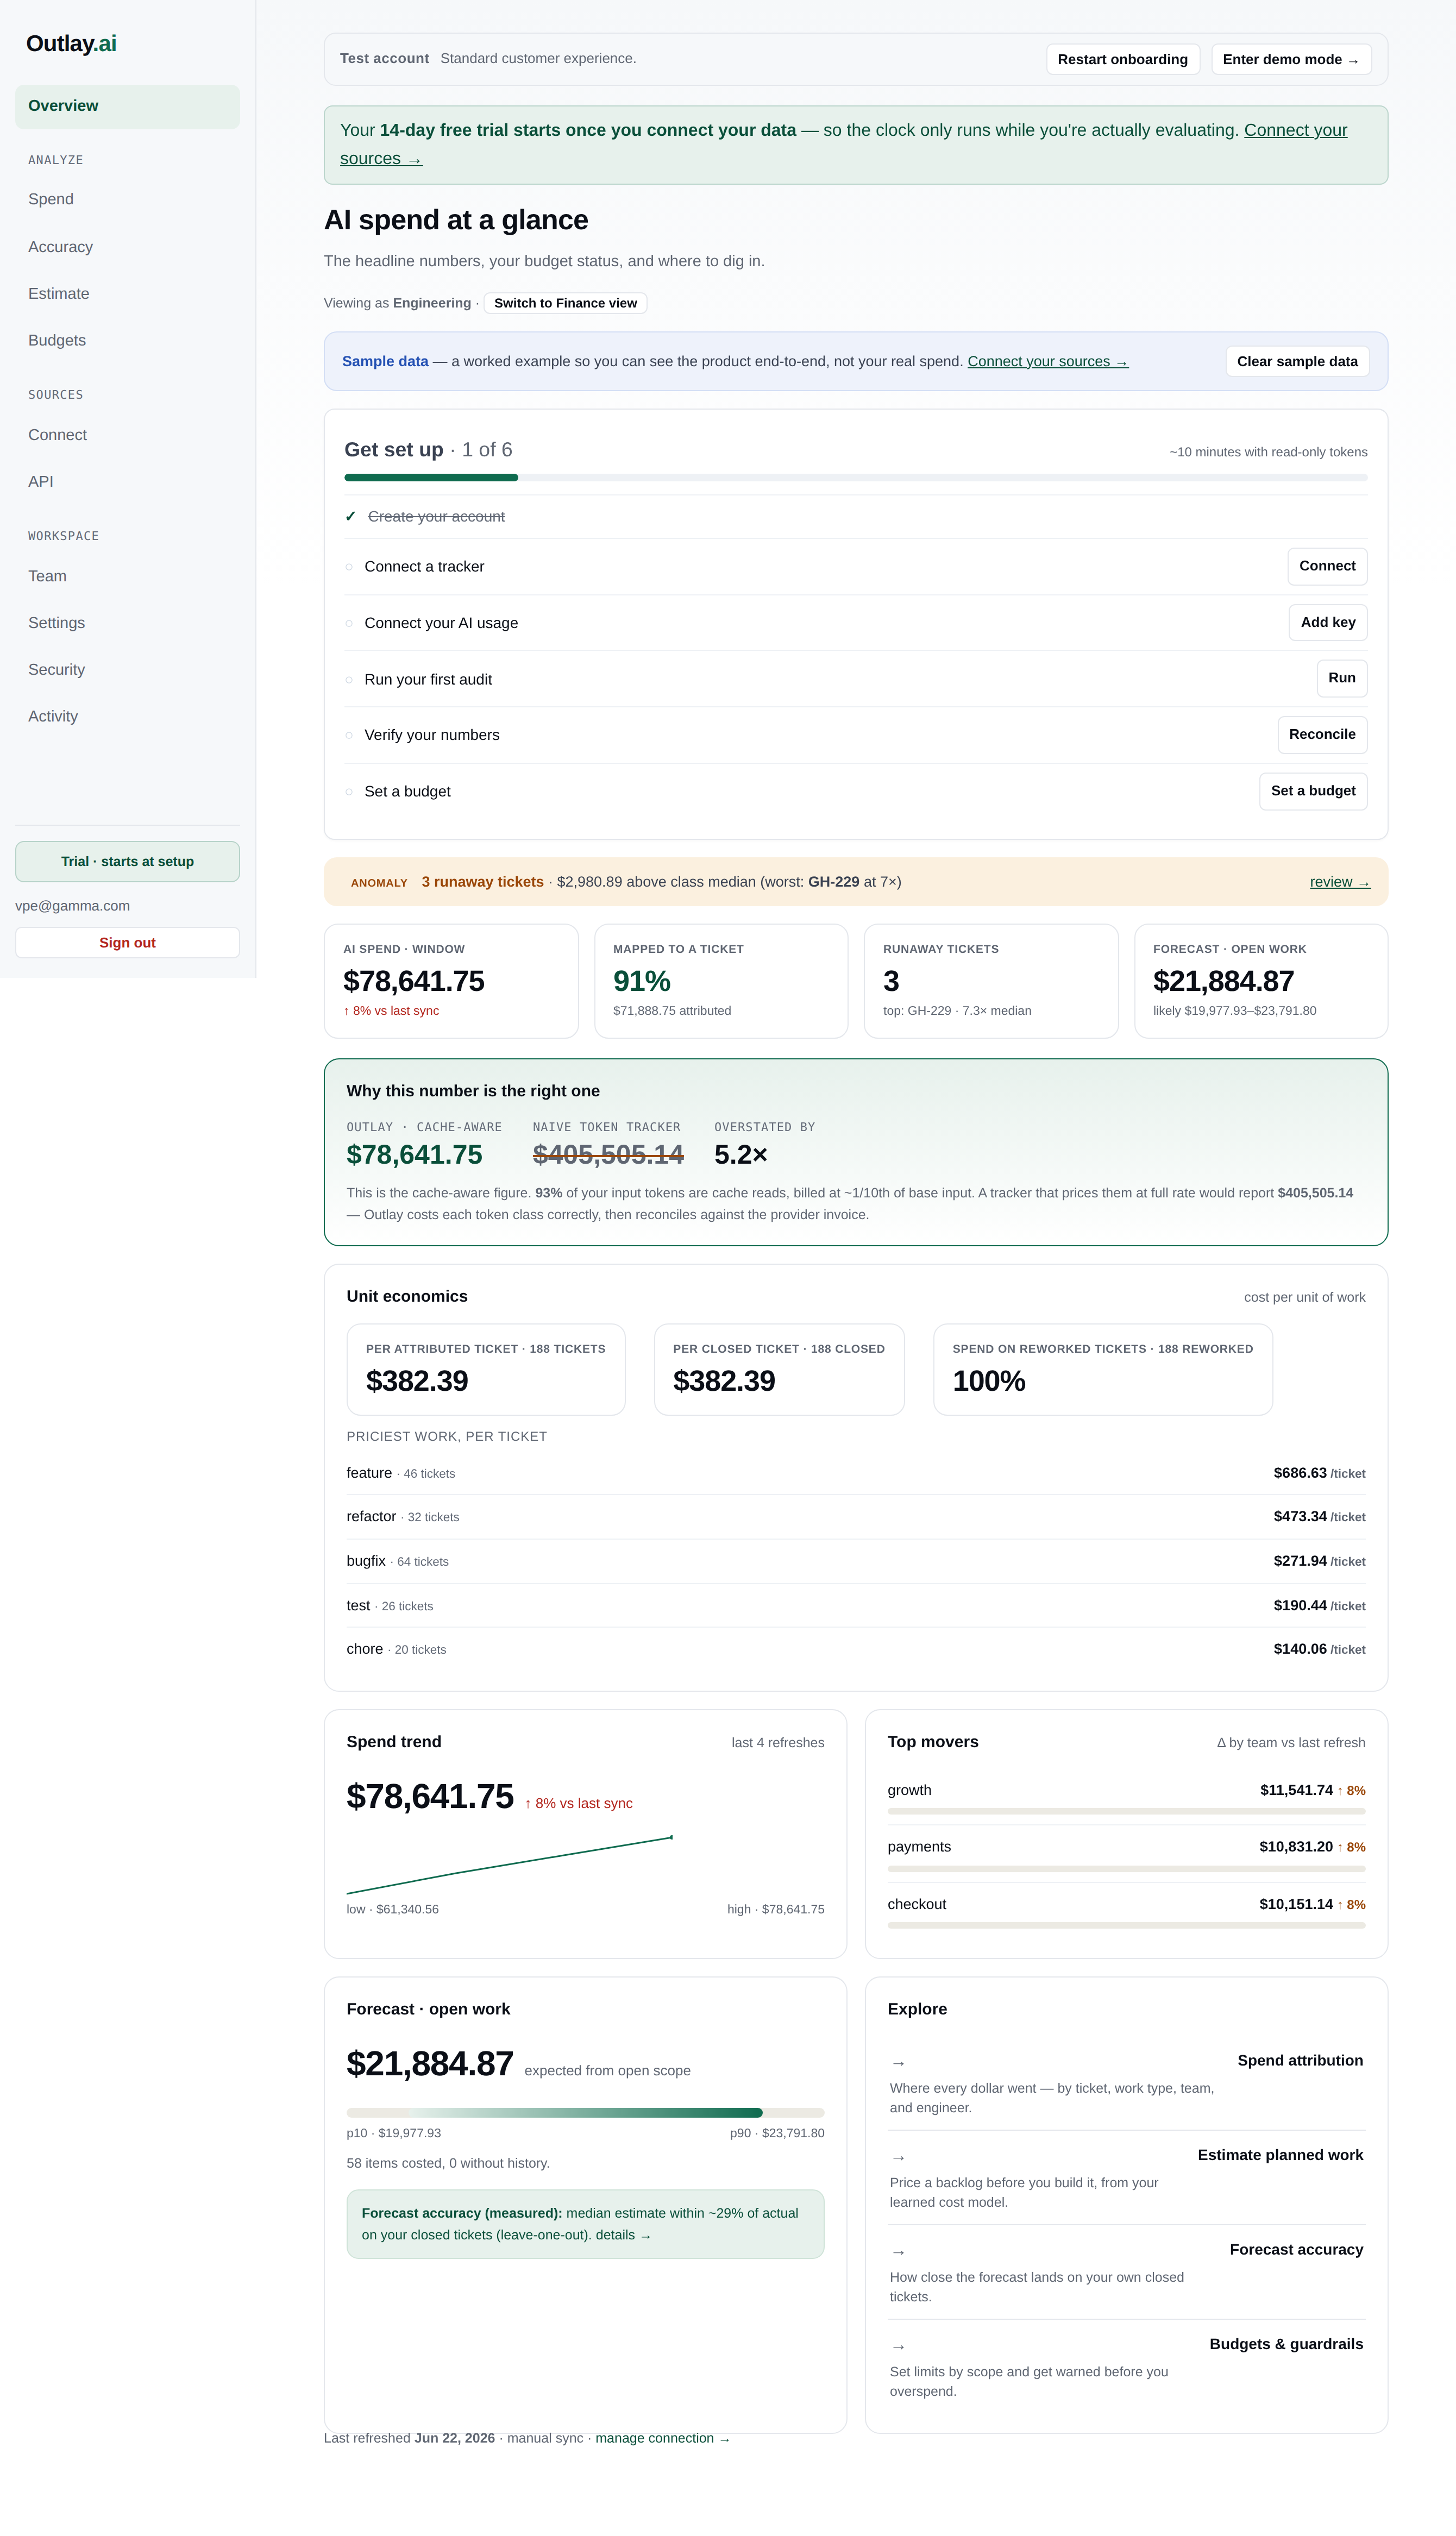
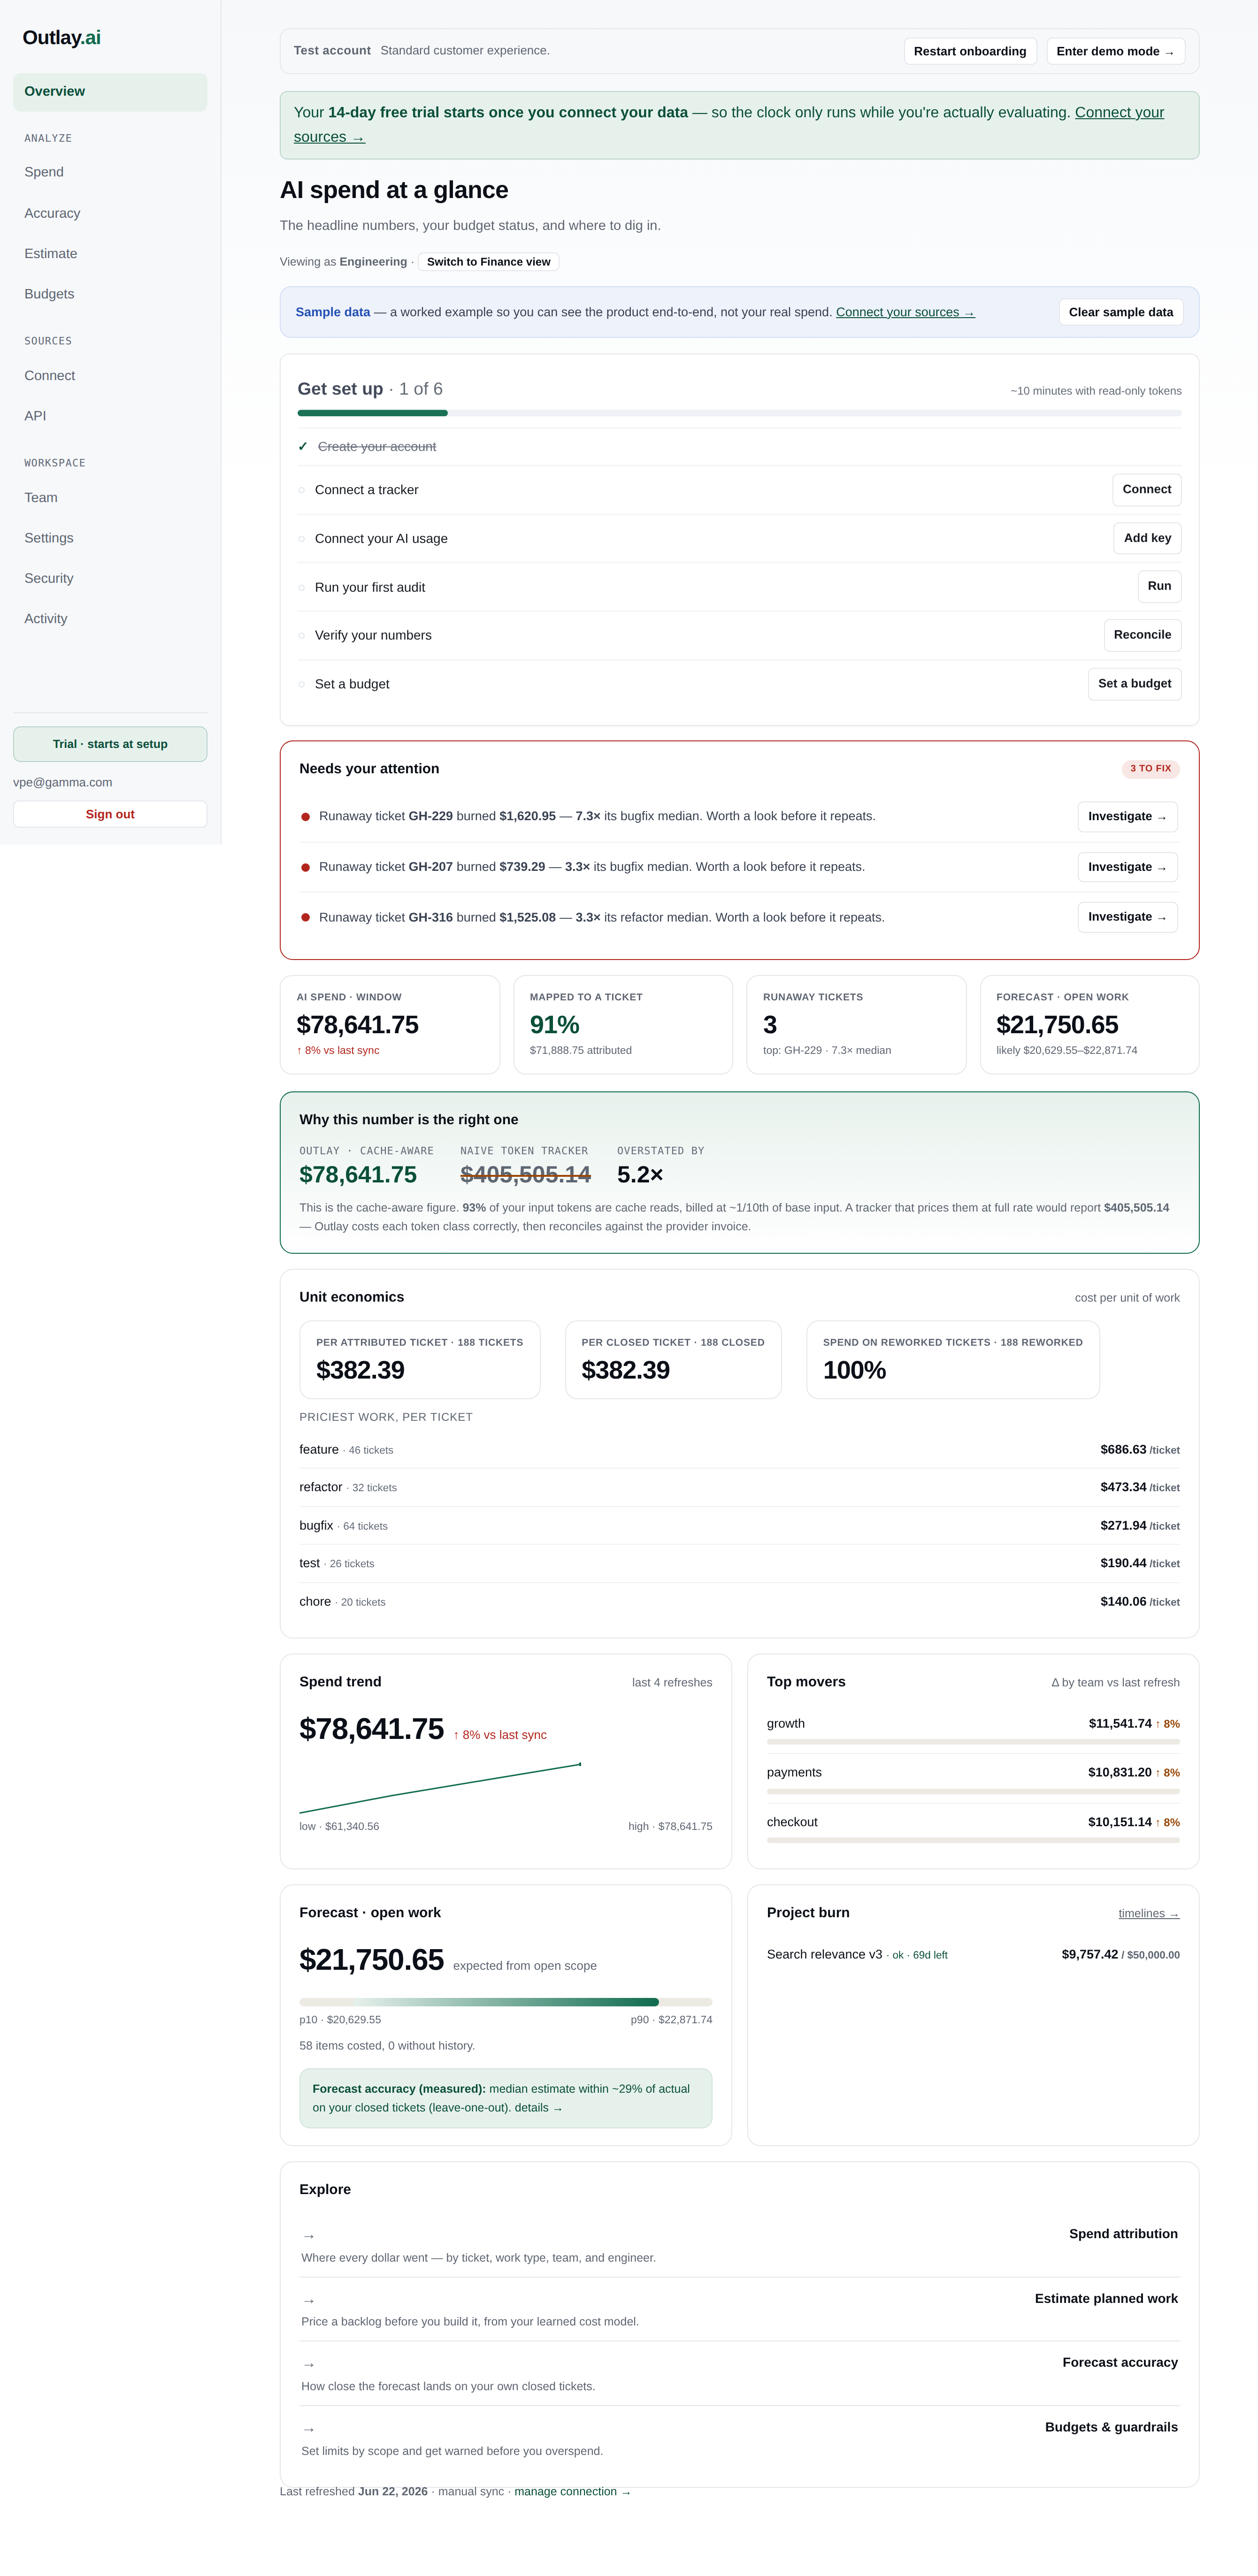
Engineering: operational attention panel + project-burn timelines
Brings the auto-flag + timeline ideas to engineering, kept engineering-focused
(not a mirror of finance's budget-governance framing):

- _eng_attention: the engineering Home leads with a 'go fix this' panel of
  operational signals — runaway tickets ("burned $X, N× its median, worth a look
  before it repeats"), attribution leaks ("$Y isn't mapped to a ticket — connect
  PRs / map teams"), a spend spike vs last sync, a stale/failed sync, and spend
  priced by a fallback tier. Ranked worst-first, one click to the fix; calm
  "Healthy" all-clear otherwise. Folds in the staleness/pricing/anomaly strips so
  they aren't repeated.
- Project burn: a "Project burn" card on the eng Home (each program's timeline
  status + breach month) and full program timelines + month-by-month projection on
  the Budgets page (now "Budgets & project burn"), framed around delivery and
  route-down optimization rather than chargeback.

Reuses the program timeline engine + _programs_section. Adds an eng-attention test
and updates the anomaly-surfacing test for the new panel. 202 passing.

Claude-Session: https://claude.ai/code/session_01Mev79UpmJmZS58W3eyakhL

diff --git a/console/web.py b/console/web.py
@@ -1765,6 +1765,110 @@ def _finance_attention(report: dict | None, budget_statuses: list[dict] | None,
             f'<div class=fa-list>{rows}</div></div>')
 
 
+def _eng_attention(report: dict | None, conn: dict | None, history: list[dict] | None,
+                   budget_statuses: list[dict] | None) -> str:
+    """Engineering's 'go fix this' panel — operational, not budget-governance. Auto-flags
+    the things an eng lead should act on without drilling: runaway tickets, attribution
+    leaks, a sudden spend jump, a stale/failed sync, and spend priced by a fallback tier.
+    Ranked worst-first, each one click to the fix. Calm all-clear when the pipeline's
+    healthy."""
+    report = report or {}
+    conn = conn or {}
+    sp = report.get("spend", {}) or {}
+    items = []  # (severity, html); 2 = fix now, 1 = keep an eye
+
+    if conn.get("last_sync_error"):
+        items.append((2, '<span class=fa-dot style="background:var(--red)"></span>'
+                      '<span class=fa-txt><b>Last sync failed</b> — your numbers may be stale until it '
+                      'succeeds.</span><a class="btn sec sm" href="/app/outlay/connect">Check connection →</a>'))
+
+    for a in report.get("anomalies", [])[:3]:
+        tid = _e(str(a.get("ticket_id")))
+        cls = a.get("task_class")
+        href = (f'/app/outlay/scope?type=class&id={quote(str(cls))}' if cls else "/app/outlay")
+        items.append((2, '<span class=fa-dot style="background:var(--red)"></span>'
+                      f'<span class=fa-txt>Runaway ticket <b>{tid}</b> burned '
+                      f'<b>{money(a.get("cost_usd",0))}</b> — <b>{a.get("ratio",0):.1f}×</b> its '
+                      f'{_e(str(cls or "work-type"))} median. Worth a look before it repeats.</span>'
+                      f'<a class="btn sec sm" href="{href}">Investigate →</a>'))
+
+    total = sp.get("total_usd", 0.0)
+    cov = sp.get("ticket_coverage", 0.0)
+    if total > 0 and 0 < cov < 0.7:
+        unmapped = max(0.0, total - sp.get("attributed_to_ticket_usd", 0.0))
+        items.append((1, '<span class=fa-dot style="background:var(--amber)"></span>'
+                      f'<span class=fa-txt><b>{money(unmapped)}</b> ({(1-cov)*100:.0f}%) of spend isn\'t '
+                      f'mapped to a ticket yet — connect PRs or map team identities to recover it.</span>'
+                      '<a class="btn sec sm" href="/app/outlay/connect#teams">Lift coverage →</a>'))
+
+    hist = history or []
+    if len(hist) >= 2:
+        cur, prev = hist[-1].get("total_usd", 0), hist[-2].get("total_usd", 0)
+        if prev > 0 and (cur - prev) / prev >= 0.25:
+            items.append((1, '<span class=fa-dot style="background:var(--amber)"></span>'
+                          f'<span class=fa-txt>AI spend <b>jumped {((cur-prev)/prev)*100:.0f}%</b> vs last '
+                          f'sync ({money(prev)} → {money(cur)}). See what moved.</span>'
+                          '<a class="btn sec sm" href="/app/outlay">See movers →</a>'))
+
+    pf = report.get("pricing_fidelity") or {}
+    if pf.get("fallback_usd", 0) and pf.get("fallback_share", 0) >= 0.005:
+        models = ", ".join(pf.get("models", [])[:3]) or "unrecognized model(s)"
+        items.append((1, '<span class=fa-dot style="background:var(--amber)"></span>'
+                      f'<span class=fa-txt><b>{money(pf["fallback_usd"])}</b> '
+                      f'({pf["fallback_share"]*100:.0f}%) was priced at the nearest tier — '
+                      f'<b>{_e(models)}</b> aren\'t in the price book yet.</span>'
+                      '<a class="btn sec sm" href="/app/outlay">Details →</a>'))
+
+    for s in (budget_statuses or []):
+        if s.get("limit_usd") and s.get("status") == "over":
+            scope = (_e(s.get("scope_type") or "") + (f' {_e(s.get("scope_id"))}' if s.get("scope_id") else "")).strip() or "overall"
+            items.append((2, '<span class=fa-dot style="background:var(--red)"></span>'
+                          f'<span class=fa-txt>Budget <b>{scope}</b> is over — projected '
+                          f'<b>{money(s.get("projected_usd",0))}</b> vs {money(s.get("limit_usd",0))}.</span>'
+                          '<a class="btn sec sm" href="/app/outlay/budgets">Review →</a>'))
+
+    items.sort(key=lambda x: x[0], reverse=True)
+    n_fix = sum(1 for sev, _ in items if sev == 2)
+    if not items:
+        return ('<div class=ocard style="margin-bottom:16px;border-color:var(--grn);background:var(--grn-l)">'
+                '<div style="display:flex;align-items:center;gap:8px">'
+                '<span class=fa-dot style="background:var(--grn-d)"></span>'
+                '<b style="color:var(--grn-d)">Healthy — nothing to fix right now.</b>'
+                '<span class=muted style="font-size:12.5px">No runaway tickets, coverage is solid, '
+                'and the last sync succeeded.</span></div></div>')
+    rows = "".join(f'<div class=fa-row>{html}</div>' for _, html in items)
+    headline = (f'{n_fix} to fix' if n_fix else f'{len(items)} to keep an eye on')
+    accent = "var(--red)" if n_fix else "var(--amber)"
+    return (f'<div class=ocard style="margin-bottom:16px;border-color:{accent}">'
+            f'<div class=dh style="display:flex;align-items:center;gap:8px">Needs your attention '
+            f'<span class="otag {"over" if n_fix else "warn"}">{headline}</span></div>'
+            f'<div class=fa-list>{rows}</div></div>')
+
+
+def _eng_project_card(program_statuses: list[dict] | None) -> str:
+    """Engineering 'project burn' card — each program/initiative's timeline status and
+    when it's set to breach, so eng can optimize *before* it does. Drills to the full
+    month-by-month projection on the Budgets page."""
+    progs = program_statuses or []
+    if not progs:
+        return ('<div class=ocard><div class=dh>Project burn<a class=sub href="/app/outlay/budgets">set up →</a></div>'
+                '<p class=muted style="margin:0;font-size:13px">Track a project\'s compute over its timeline — '
+                '<a href="/app/outlay/budgets">define a program</a> with start/end dates.</p></div>')
+    rows = ""
+    for s in progs[:5]:
+        st = s.get("status", "ok")
+        col = {"ok": "var(--grn-d)", "warn": "var(--amber)", "over": "var(--red)"}.get(st)
+        tl = s.get("timeline") or {}
+        days = tl.get("days_left")
+        when = (f'breach {_e(tl["breach_month"])}' if tl.get("breach_month")
+                else (f'{days}d left' if days is not None else "on track"))
+        rows += (f'<div class=erow><a class=nm href="/app/outlay/budgets">{_e(s.get("name"))} '
+                 f'<small style="color:{col}">· {st} · {when}</small> <span class=drill>→</span></a>'
+                 f'<span class=amt>{money(s.get("spent_usd",0))}<small class=muted> / {money(s.get("limit_usd",0))}</small></span></div>')
+    return (f'<div class=ocard><div class=dh>Project burn'
+            f'<a class=sub href="/app/outlay/budgets">timelines →</a></div>{rows}</div>')
+
+
 HOME_GROUPINGS = {
     "team": "Team / cost-center", "class": "Work type",
     "project": "Project / epic", "person": "Engineer",
@@ -1967,7 +2071,24 @@ def overview_page(account: dict, report: dict | None, statuses: list[dict] | Non
                 + lens_bar + modules + _sync_line(report, conn))
         return page("Home", body, account, active="/app")
 
-    # Engineering (and pre-persona) keep the operate-focused layout.
+    # Engineering: operate-focused. Lead with the 'go fix this' attention panel
+    # (runaway tickets, coverage leaks, spend spikes, stale sync, pricing gaps) and a
+    # 'project burn' card with each program's timeline. The attention panel folds in the
+    # staleness / pricing / anomaly signals, so they aren't repeated as separate strips.
+    if persona == "eng":
+        eng_attn = _eng_attention(report, conn, history, statuses)
+        grid = ('<div class=ogrid style="margin-top:16px">' + _forecast_card(report)
+                + _eng_project_card(program_statuses) + '</div>'
+                + '<div style="margin-top:16px">' + _explore_card(persona) + '</div>')
+        body = (tb + head + _persona_switch(persona)
+                + _sample_strip(report, account) + checklist
+                + eng_attn
+                + _kpis_row(report, history, persona)
+                + _recon_strip(report) + fidelity + unit + tm_row
+                + grid + _sync_line(report, conn))
+        return page("Home", body, account, active="/app")
+
+    # Pre-persona (no role chosen yet) keeps the legacy strips + chooser.
     attention = _budget_strip(statuses) + _anomaly_strip(report, *_anomaly_prefs(conn))
     body = (tb + chooser + head + _persona_switch(persona) + _staleness_banner(report, conn)
             + _sample_strip(report, account) + checklist
@@ -2669,13 +2790,21 @@ def _budgets_section(account: dict, report: dict | None, statuses: list[dict],
 
 
 def budgets_page(account: dict, report: dict | None, statuses: list[dict],
-                 projects: list[dict] | None = None) -> str:
-    """Set budgets by scope and see spend-vs-budget with pace projection."""
-    head = ('<div class=ohead><h1>Budgets &amp; guardrails</h1>'
-            '<p>Set a budget by scope; Outlay projects your spend to the period and flags it '
-            '<b>before</b> you go over — not at month-end. Need to budget a body of work across several '
-            'teams or projects? Use <a href="/app/outlay/programs">program budgets</a>.</p></div>')
-    return page("Budgets", head + _budgets_section(account, report, statuses, projects),
+                 projects: list[dict] | None = None,
+                 program_statuses: list[dict] | None = None) -> str:
+    """The engineering budgets + project-burn page: budget a scope, and watch each
+    project/program burn down its compute over its timeline (start/end + month-by-month
+    projection) so you can optimize before it breaches."""
+    head = ('<div class=ohead><h1>Budgets &amp; project burn</h1>'
+            '<p>Budget a scope and watch it project against your pace. <b>Projects</b> cap a body of '
+            'work across teams with a start/end timeline and a month-by-month burn — so you can route '
+            'down or tune <b>before</b> a project blows its compute budget.</p></div>')
+    burn = ""
+    if program_statuses:
+        burn = (f'<h2 style="font-size:16px;margin:18px 0 6px">Project burn</h2>'
+                f'{_programs_section(account, report, program_statuses)}'
+                f'<h2 style="font-size:16px;margin:24px 0 6px">Scope budgets</h2>')
+    return page("Budgets", head + burn + _budgets_section(account, report, statuses, projects),
                 account, active="/app/outlay/budgets")
 
 

diff --git a/console/test_console.py b/console/test_console.py
@@ -2991,6 +2991,33 @@ def test_finance_home_customizable_layout(env, client):
     assert store.get_dashboard_layout(acct["id"], 0) == {}
 
 
+def test_eng_attention_and_project_burn(env, client):
+    """Engineering gets its own operational attention panel (runaway tickets, coverage,
+    spikes, stale sync) — NOT finance's budget-governance framing — plus project-burn
+    timelines on Home and the Budgets page."""
+    from console import store, web
+    _signup(client, email="[email redacted]")
+    acct = store.get_account_by_email("[email redacted]")
+    store.set_persona(acct["id"], "eng", acct.get("member_id", 0) or 0)
+    client.post("/app/outlay/sample", follow_redirects=True)
+    ov = client.get("/app").text
+    assert "Needs your attention" in ov
+    assert "Runaway ticket" in ov and "Investigate" in ov         # eng anomaly framing
+    assert "is projected to overspend" not in ov                  # not finance governance copy
+    assert "Project burn" in ov                                   # project-timeline card on Home
+    # a program with a timeline renders on the eng Budgets page (project burn)
+    client.post("/app/outlay/programs", data={
+        "name": "Proj X", "limit_usd": "50000", "members": "team search",
+        "start_date": "2026-04-01", "end_date": "2026-08-31"}, follow_redirects=True)
+    bg = client.get("/app/outlay/budgets").text
+    assert "project burn" in bg.lower() and "Proj X" in bg and "Month-by-month" in bg
+    assert "Scope budgets" in bg
+    # all-clear branch when the pipeline is healthy
+    clear = web._eng_attention({"spend": {"total_usd": 100, "ticket_coverage": 0.95}, "anomalies": []},
+                               {}, [], [])
+    assert "Healthy" in clear and "Needs your attention" not in clear
+
+
 def test_unit_economics_engine_and_card(env, client):
     from console import outlay_app
     # engine: per-ticket / per-closed / rework / by-class from attributed tickets
@@ -3408,14 +3435,14 @@ def test_monthly_close_pack_builds_attaches_focus_and_cadence(env, client, monke
 
 
 def test_anomalies_surfaced_on_spend_and_overview(env, client):
-    """Runaway tickets (>=3x class median) show in-product — strip on Overview,
-    card on Spend — not just buried in the report."""
-    _signup(client, email="[email redacted]")
-    client.post("/app/outlay/sample", follow_redirects=True)  # sample has a 11.5x outlier
+    """Runaway tickets (>=3x class median) show in-product — the engineering attention
+    panel on the Home (Overview), the card on Spend — not just buried in the report."""
+    _signup(client, email="[email redacted]")  # default persona = eng
+    client.post("/app/outlay/sample", follow_redirects=True)  # sample has outliers
     spend = client.get("/app/outlay").text
     assert "Runaway tickets" in spend
     home = client.get("/app").text
-    assert "runaway ticket" in home and "anomaly" in home
+    assert "Needs your attention" in home and "Runaway ticket" in home and "Investigate" in home
 
 
 def test_anomaly_alert_fires_once_then_dedupes(env, client, monkeypatch):

diff --git a/console/server.py b/console/server.py
@@ -1378,7 +1378,9 @@ def app_outlay_budgets(request: Request):
         return redir
     report = store.get_outlay_report(acct["id"])
     statuses = outlay_app.budget_statuses(report, store.list_outlay_budgets(acct["id"]))
-    return _html(web.budgets_page(acct, report, statuses, outlay_app.project_spend(report)))
+    programs = outlay_app.program_statuses(report, store.list_outlay_programs(acct["id"])) if report else []
+    return _html(web.budgets_page(acct, report, statuses, outlay_app.project_spend(report),
+                                  program_statuses=programs))
 
 
 @app.post("/app/outlay/budgets")

diff --git a/docs/product-walkthrough.md b/docs/product-walkthrough.md
@@ -66,6 +66,14 @@ screen-by-screen customer flow for **each persona** (Finance and Engineering).*
 > 17. **Phase 3 — customizable layout.** A per-person Customize mode to reorder /
 >     hide / show / reset the Home card deck, persisted in `dashboard_prefs`. Completes
 >     the consolidate → change-view → personalize arc.
+>
+> **Review round 6 — engineering attention + project burn:**
+> 18. **Engineering "Needs your attention" panel** — operational, not budget-governance:
+>     runaway tickets, attribution leaks, spend spikes, stale/failed sync, fallback-tier
+>     pricing — ranked, one click to the fix. Distinct framing from finance's panel.
+> 19. **Project burn** — program/initiative timelines (start/end + month-by-month
+>     projection) on the engineering Home (summary card) and the Budgets page (full
+>     timelines), framed around delivery/optimization rather than chargeback.
 
 **Status of this audit:** A live end-to-end smoke test was run against the actual
 app (FastAPI test client driving real routes). **54 of 55 checks passed**; the one
@@ -405,11 +413,20 @@ Finance does not see Connect or API.)*
 ![Engineering overview with data](images/walkthrough/15_eng_overview_data.png)
 
 - H1 **"AI spend at a glance."**
+- **"Needs your attention" panel — engineering-focused (act-first).** Auto-flags the
+  *operational* things to go fix (not finance's budget-governance): **runaway tickets**
+  ("burned $X — N× its median, worth a look before it repeats → Investigate"), an
+  **attribution leak** ("$Y isn't mapped to a ticket — connect PRs / map teams → Lift
+  coverage"), a **spend spike** ("jumped X% vs last sync → See movers"), a **stale/failed
+  sync**, and spend **priced by a fallback tier**. Calm "Healthy — nothing to fix" when
+  the pipeline's clean.
 - **Four KPIs (eng-specific):** *AI spend · window* · **Mapped to a ticket** (coverage
   %, the trust metric) · **Runaway tickets** (count, top offender) · *Forecast · open
   work*.
-- Same trust callout, unit economics, trend/movers, forecast, and Explore as finance,
-  but ordered for shipping (Spend, Estimate, Accuracy, Budgets).
+- **Project burn card** — each program/initiative's timeline status and *when it's set
+  to breach*, so eng can optimize before it does (drills to the Budgets timelines).
+- Trust callout, unit economics, trend/movers, forecast, and Explore, ordered for
+  shipping.
 
 ### E6 · Spend (`/app/outlay`)
 
@@ -450,8 +467,17 @@ Finance does not see Connect or API.)*
   set budget (variance-pooled band). The connected-backlog view shows the backlog total
   alone (it *is* the open work — no double-count); the what-if view shows forecast + plan.
 
-### E9 · Budgets (`/app/outlay/budgets`)
-Same as F6 — engineering sets/uses budgets too.
+### E9 · Budgets & project burn (`/app/outlay/budgets`)
+
+![Engineering budgets & project burn](images/walkthrough/19_eng_budgets.png)
+
+- H1 **"Budgets & project burn."** Engineering-framed: route down / tune *before* a
+  project blows its compute budget.
+- **Project burn** — each program/initiative with its **start/end timeline** and a
+  **month-by-month** projected-vs-pro-rated-cap burn (breaching months flagged), plus
+  the "Define a program" form (start/end dates). Same timeline engine as finance's
+  Governance, but framed around delivery/optimization rather than chargeback.
+- **Scope budgets** — single-scope budgets with pace projection + the project pick-list.
 
 ### E10 · Drill-down / scope
 